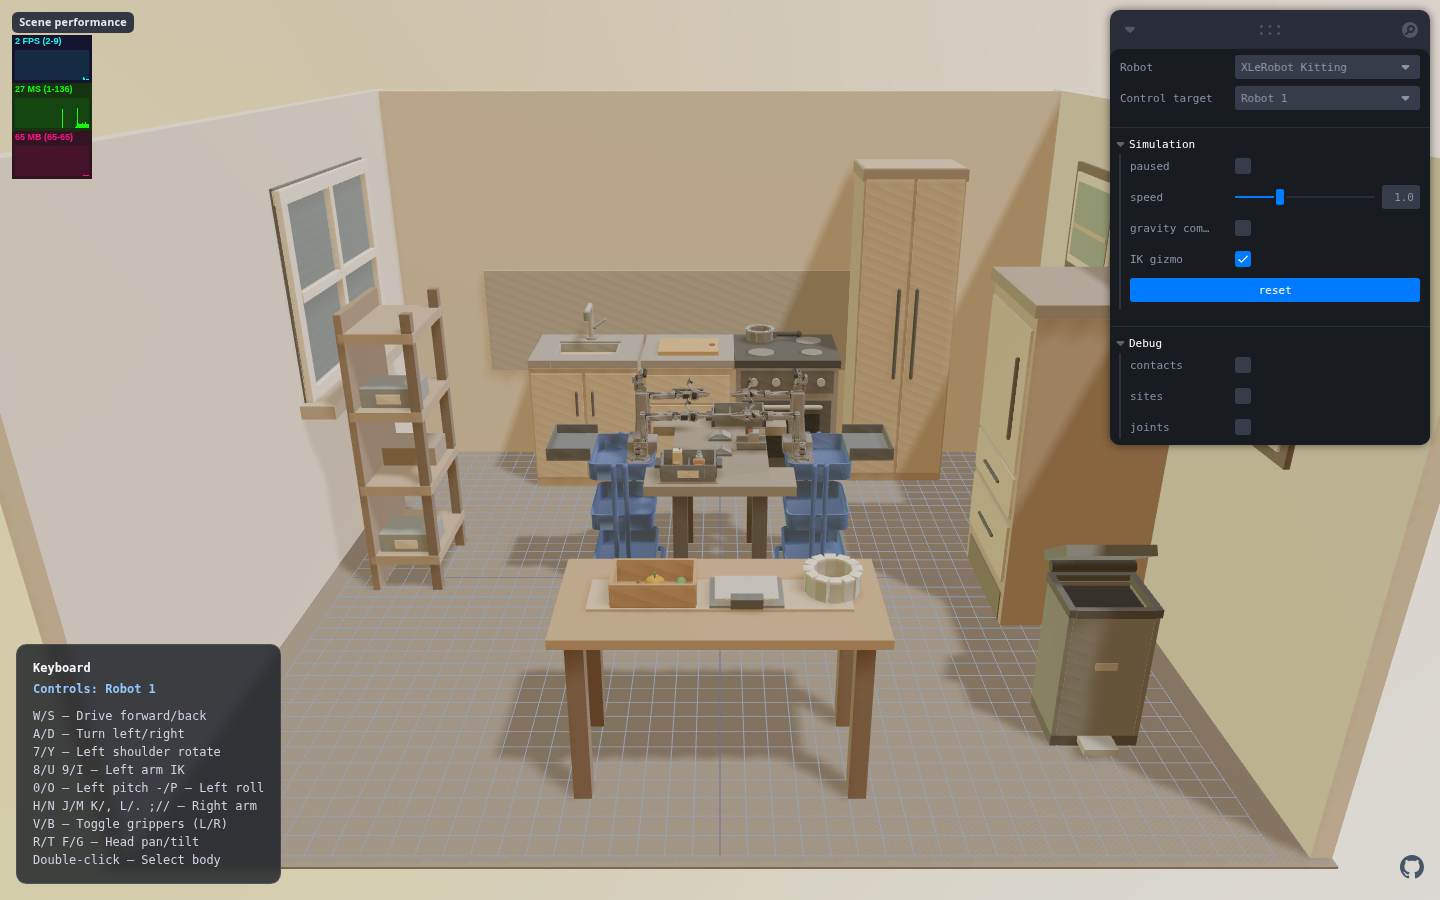
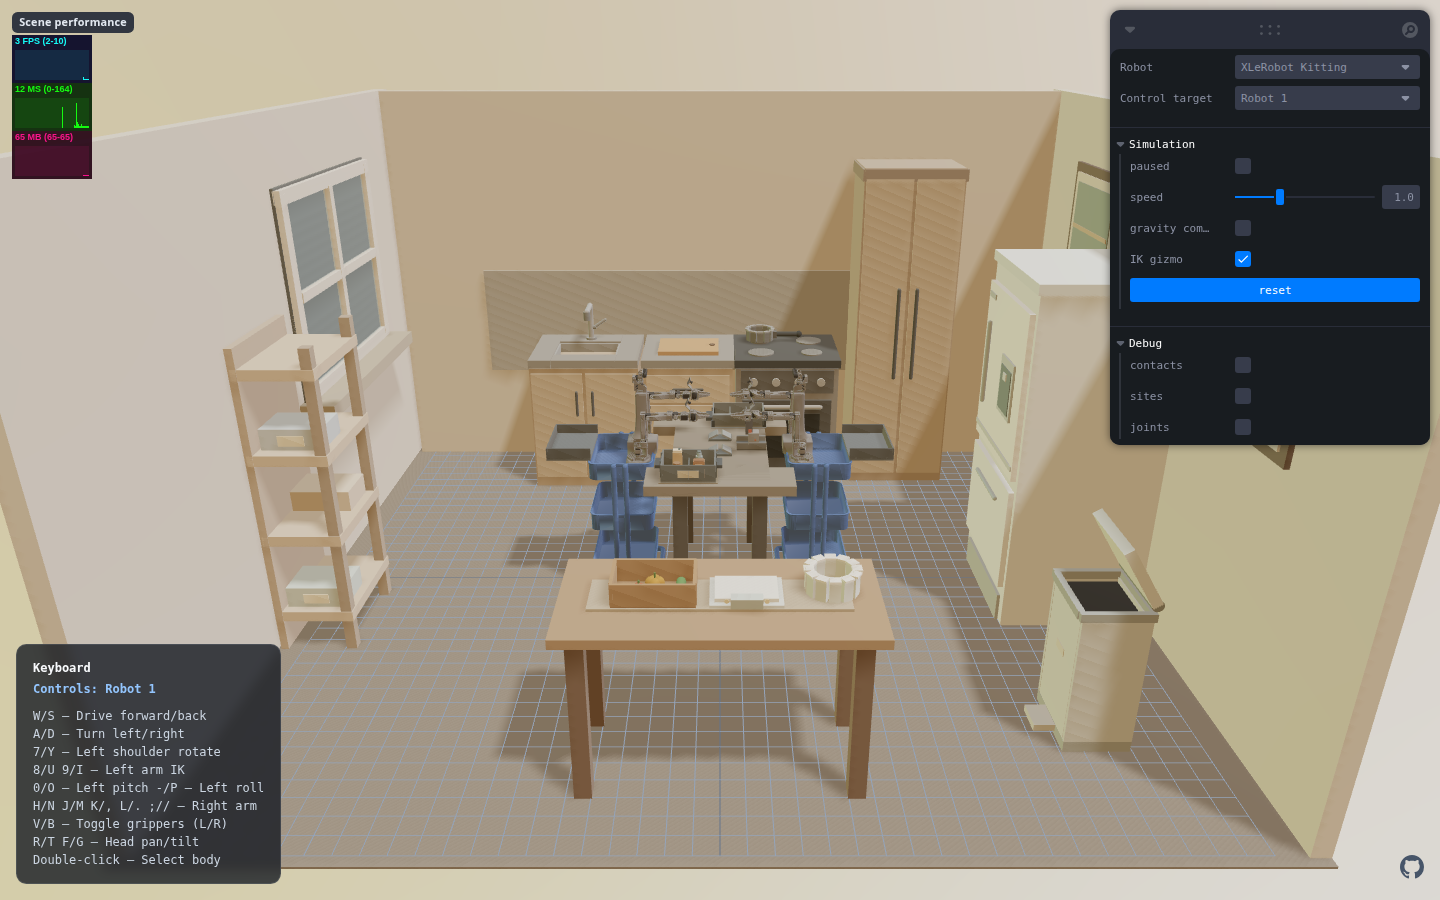
refactor(scene): refine XLeRobot kitchen
Separate the west shelf from the window, replace the east cabinet with a pale refrigerator, rotate and open the trash bin westward, and improve the produce-table prop palette.

diff --git a/src/collaborativeSceneLayouts.js b/src/collaborativeSceneLayouts.js
@@ -622,16 +622,19 @@ const XLEROBOT_HOME_ENVIRONMENT_XML = `
       <geom name="kitchen_east_wall_art_2_accent" type="cylinder" pos="-0.03 0.02 0.02" size="0.095 0.003" euler="0 90 0" rgba="0.32 0.38 0.35 1" contype="0" conaffinity="0"/>
     </body>
 
-    <body name="kitchen_side_cabinet" pos="1.74 -0.1 0">
-      <geom name="kitchen_side_cabinet_case" type="box" pos="0 0 0.79" size="0.34 0.37 0.79" rgba="0.48 0.41 0.34 1"/>
-      <geom name="kitchen_side_cabinet_top" type="box" pos="0 0 1.61" size="0.36 0.39 0.03" rgba="0.34 0.31 0.27 1"/>
-      <geom name="kitchen_side_cabinet_toe_kick" type="box" pos="-0.31 0 0.08" size="0.035 0.32 0.08" rgba="0.24 0.22 0.2 1"/>
-      <geom name="kitchen_side_cabinet_door_upper" type="box" pos="-0.347 0 1.16" size="0.007 0.34 0.35" rgba="0.6 0.53 0.44 1"/>
-      <geom name="kitchen_side_cabinet_drawer_middle" type="box" pos="-0.347 0 0.68" size="0.007 0.34 0.105" rgba="0.61 0.54 0.45 1"/>
-      <geom name="kitchen_side_cabinet_drawer_lower" type="box" pos="-0.347 0 0.38" size="0.007 0.34 0.15" rgba="0.61 0.54 0.45 1"/>
-      <geom name="kitchen_side_cabinet_handle_upper" type="capsule" fromto="-0.362 -0.22 0.95 -0.362 -0.22 1.34" size="0.011" rgba="0.22 0.23 0.22 1"/>
-      <geom name="kitchen_side_cabinet_handle_middle" type="capsule" fromto="-0.362 -0.13 0.68 -0.362 0.13 0.68" size="0.009" rgba="0.22 0.23 0.22 1"/>
-      <geom name="kitchen_side_cabinet_handle_lower" type="capsule" fromto="-0.362 -0.13 0.38 -0.362 0.13 0.38" size="0.009" rgba="0.22 0.23 0.22 1"/>
+    <body name="kitchen_refrigerator" pos="1.74 -0.1 0">
+      <geom name="refrigerator_case" type="box" pos="0 0 0.84" size="0.34 0.37 0.84" rgba="0.82 0.87 0.86 1"/>
+      <geom name="refrigerator_top" type="box" pos="0 0 1.705" size="0.355 0.385 0.025" rgba="0.76 0.82 0.81 1"/>
+      <geom name="refrigerator_toe_kick" type="box" pos="-0.337 0 0.07" size="0.018 0.315 0.07" rgba="0.49 0.54 0.54 1"/>
+      <geom name="refrigerator_upper_door" type="box" pos="-0.354 0 1.18" size="0.014 0.345 0.405" rgba="0.9 0.93 0.9 1"/>
+      <geom name="refrigerator_freezer_drawer" type="box" pos="-0.354 0 0.46" size="0.014 0.345 0.255" rgba="0.86 0.91 0.9 1"/>
+      <geom name="refrigerator_door_seam" type="box" pos="-0.371 0 0.835" size="0.004 0.337 0.012" rgba="0.62 0.68 0.67 1" contype="0" conaffinity="0"/>
+      <geom name="refrigerator_upper_handle" type="capsule" fromto="-0.382 0.235 0.98 -0.382 0.235 1.39" size="0.012" rgba="0.56 0.63 0.63 1"/>
+      <geom name="refrigerator_freezer_handle" type="capsule" fromto="-0.382 -0.18 0.61 -0.382 0.18 0.61" size="0.011" rgba="0.56 0.63 0.63 1"/>
+      <geom name="refrigerator_water_dispenser_frame" type="box" pos="-0.374 -0.13 1.17" size="0.006 0.105 0.14" rgba="0.58 0.65 0.64 1" contype="0" conaffinity="0"/>
+      <geom name="refrigerator_water_dispenser" type="box" pos="-0.381 -0.13 1.16" size="0.003 0.083 0.108" rgba="0.24 0.32 0.33 1" contype="0" conaffinity="0"/>
+      <geom name="refrigerator_dispenser_nozzle" type="box" pos="-0.386 -0.13 1.225" size="0.004 0.025 0.018" rgba="0.68 0.74 0.73 1" contype="0" conaffinity="0"/>
+      <geom name="refrigerator_brand_badge" type="box" pos="-0.383 0.22 1.535" size="0.003 0.052 0.013" rgba="0.53 0.59 0.59 1" contype="0" conaffinity="0"/>
     </body>
 
     <body name="kitchen_sink_cabinet" pos="-0.85 1.47 0">
@@ -751,55 +754,55 @@ const XLEROBOT_HOME_ENVIRONMENT_XML = `
     </body>
 
     <body name="produce_table_scale" pos="0.1 -1.45 0.762">
-      <geom name="produce_scale_base" type="box" size="0.14 0.105 0.012" rgba="0.27 0.29 0.29 1"/>
-      <geom name="produce_scale_platform" type="box" pos="0 0 0.022" size="0.12 0.085 0.008" rgba="0.53 0.54 0.52 1"/>
-      <geom name="produce_scale_display_housing" type="box" pos="0 -0.112 0.034" size="0.06 0.016 0.026" euler="18 0 0" rgba="0.2 0.22 0.22 1"/>
-      <geom name="produce_scale_display" type="box" pos="0 -0.128 0.041" size="0.043 0.002 0.012" euler="18 0 0" rgba="0.44 0.56 0.5 1" contype="0" conaffinity="0"/>
-      <geom name="produce_scale_button_left" type="cylinder" pos="-0.075 -0.108 0.032" size="0.009 0.002" euler="90 0 0" rgba="0.56 0.5 0.38 1" contype="0" conaffinity="0"/>
-      <geom name="produce_scale_button_right" type="cylinder" pos="0.075 -0.108 0.032" size="0.009 0.002" euler="90 0 0" rgba="0.56 0.5 0.38 1" contype="0" conaffinity="0"/>
+      <geom name="produce_scale_base" type="box" size="0.14 0.105 0.012" rgba="0.73 0.78 0.76 1"/>
+      <geom name="produce_scale_platform" type="box" pos="0 0 0.022" size="0.12 0.085 0.008" rgba="0.86 0.88 0.84 1"/>
+      <geom name="produce_scale_display_housing" type="box" pos="0 -0.112 0.034" size="0.06 0.016 0.026" euler="18 0 0" rgba="0.65 0.72 0.7 1"/>
+      <geom name="produce_scale_display" type="box" pos="0 -0.128 0.041" size="0.043 0.002 0.012" euler="18 0 0" rgba="0.38 0.61 0.54 1" contype="0" conaffinity="0"/>
+      <geom name="produce_scale_button_left" type="cylinder" pos="-0.075 -0.108 0.032" size="0.009 0.002" euler="90 0 0" rgba="0.82 0.72 0.5 1" contype="0" conaffinity="0"/>
+      <geom name="produce_scale_button_right" type="cylinder" pos="0.075 -0.108 0.032" size="0.009 0.002" euler="90 0 0" rgba="0.82 0.72 0.5 1" contype="0" conaffinity="0"/>
     </body>
     <body name="produce_prep_bowl" pos="0.43 -1.42 0.767">
-      <geom name="prep_bowl_bottom" type="cylinder" size="0.085 0.006" rgba="0.47 0.5 0.49 1"/>
-      ${annularGeometry('prep_bowl_wall', 0.075, 0.105, 0.045, '0.53 0.56 0.55 1', 0.2, [0, 0, 0.043])}
-      ${annularGeometry('prep_bowl_rim', 0.072, 0.112, 0.004, '0.68 0.69 0.66 1', 0.04, [0, 0, 0.088])}
-      <geom name="prep_bowl_inner_bottom" type="cylinder" pos="0 0 0.008" size="0.074 0.0015" rgba="0.28 0.3 0.29 1" contype="0" conaffinity="0"/>
+      <geom name="prep_bowl_bottom" type="cylinder" size="0.085 0.006" rgba="0.76 0.82 0.8 1"/>
+      ${annularGeometry('prep_bowl_wall', 0.075, 0.105, 0.045, '0.8 0.86 0.84 1', 0.2, [0, 0, 0.043])}
+      ${annularGeometry('prep_bowl_rim', 0.072, 0.112, 0.004, '0.9 0.91 0.86 1', 0.04, [0, 0, 0.088])}
+      <geom name="prep_bowl_inner_bottom" type="cylinder" pos="0 0 0.008" size="0.074 0.0015" rgba="0.61 0.69 0.67 1" contype="0" conaffinity="0"/>
     </body>
 
-    <body name="kitchen_trash_bin" pos="1.55 -1.25 0">
-      <geom name="trash_bin_base" type="box" pos="0 0 0.025" size="0.18 0.14 0.025" rgba="0.17 0.18 0.18 1"/>
-      <geom name="trash_bin_wall_west" type="box" pos="-0.17 0 0.34" size="0.01 0.14 0.29" rgba="0.27 0.29 0.29 1"/>
-      <geom name="trash_bin_wall_east" type="box" pos="0.17 0 0.34" size="0.01 0.14 0.29" rgba="0.27 0.29 0.29 1"/>
-      <geom name="trash_bin_wall_north" type="box" pos="0 0.13 0.34" size="0.16 0.01 0.29" rgba="0.25 0.27 0.27 1"/>
-      <geom name="trash_bin_wall_south" type="box" pos="0 -0.13 0.34" size="0.16 0.01 0.29" rgba="0.29 0.31 0.31 1"/>
-      <geom name="trash_bin_rim_west" type="box" pos="-0.17 0 0.64" size="0.014 0.15 0.018" rgba="0.15 0.16 0.16 1"/>
-      <geom name="trash_bin_rim_east" type="box" pos="0.17 0 0.64" size="0.014 0.15 0.018" rgba="0.15 0.16 0.16 1"/>
-      <geom name="trash_bin_rim_north" type="box" pos="0 0.14 0.64" size="0.156 0.014 0.018" rgba="0.15 0.16 0.16 1"/>
-      <geom name="trash_bin_rim_south" type="box" pos="0 -0.14 0.64" size="0.156 0.014 0.018" rgba="0.15 0.16 0.16 1"/>
+    <body name="kitchen_trash_bin" pos="1.55 -1.25 0" euler="0 0 -90">
+      <geom name="trash_bin_base" type="box" pos="0 0 0.025" size="0.18 0.14 0.025" rgba="0.45 0.49 0.48 1"/>
+      <geom name="trash_bin_wall_west" type="box" pos="-0.17 0 0.34" size="0.01 0.14 0.29" rgba="0.66 0.7 0.68 1"/>
+      <geom name="trash_bin_wall_east" type="box" pos="0.17 0 0.34" size="0.01 0.14 0.29" rgba="0.66 0.7 0.68 1"/>
+      <geom name="trash_bin_wall_north" type="box" pos="0 0.13 0.34" size="0.16 0.01 0.29" rgba="0.63 0.67 0.65 1"/>
+      <geom name="trash_bin_wall_south" type="box" pos="0 -0.13 0.34" size="0.16 0.01 0.29" rgba="0.7 0.74 0.71 1"/>
+      <geom name="trash_bin_rim_west" type="box" pos="-0.17 0 0.64" size="0.014 0.15 0.018" rgba="0.42 0.46 0.45 1"/>
+      <geom name="trash_bin_rim_east" type="box" pos="0.17 0 0.64" size="0.014 0.15 0.018" rgba="0.42 0.46 0.45 1"/>
+      <geom name="trash_bin_rim_north" type="box" pos="0 0.14 0.64" size="0.156 0.014 0.018" rgba="0.42 0.46 0.45 1"/>
+      <geom name="trash_bin_rim_south" type="box" pos="0 -0.14 0.64" size="0.156 0.014 0.018" rgba="0.42 0.46 0.45 1"/>
       <geom name="trash_bin_opening" type="box" pos="0 0 0.61" size="0.15 0.115 0.004" rgba="0.055 0.06 0.06 1" contype="0" conaffinity="0"/>
-      <geom name="trash_bin_lid_hinge" type="cylinder" pos="0 0.145 0.69" size="0.025 0.175" euler="0 90 0" rgba="0.12 0.13 0.13 1"/>
-      <geom name="trash_bin_lid" type="box" pos="0 0.105 0.775" size="0.18 0.14 0.022" euler="-32 0 0" rgba="0.22 0.24 0.24 1"/>
-      <geom name="trash_bin_foot_pedal" type="box" pos="0 -0.18 0.035" size="0.07 0.05 0.015" rgba="0.42 0.43 0.41 1"/>
-      <geom name="trash_bin_front_badge" type="box" pos="0 -0.141 0.39" size="0.045 0.002 0.018" rgba="0.48 0.47 0.42 1" contype="0" conaffinity="0"/>
+      <geom name="trash_bin_lid_hinge" type="cylinder" pos="0 0.145 0.69" size="0.025 0.175" euler="0 90 0" rgba="0.34 0.38 0.37 1"/>
+      <geom name="trash_bin_lid" type="box" pos="0 0.07 0.81" size="0.18 0.14 0.022" euler="-58 0 0" rgba="0.73 0.77 0.74 1"/>
+      <geom name="trash_bin_foot_pedal" type="box" pos="0 -0.18 0.035" size="0.07 0.05 0.015" rgba="0.67 0.69 0.65 1"/>
+      <geom name="trash_bin_front_badge" type="box" pos="0 -0.141 0.39" size="0.045 0.002 0.018" rgba="0.72 0.7 0.62 1" contype="0" conaffinity="0"/>
     </body>
 
-    <body name="storage_shelf" pos="-1.65 0.15 0">
-      <geom name="storage_shelf_back" type="box" pos="-0.17 0 0.75" size="0.018 0.28 0.75" rgba="0.35 0.29 0.23 1"/>
-      <geom name="storage_shelf_post_front" type="box" pos="0.15 -0.25 0.75" size="0.025 0.025 0.75" rgba="0.27 0.23 0.19 1"/>
-      <geom name="storage_shelf_post_back" type="box" pos="0.15 0.25 0.75" size="0.025 0.025 0.75" rgba="0.27 0.23 0.19 1"/>
-      <geom name="storage_shelf_level_1" type="box" pos="0 0 0.18" size="0.18 0.28 0.025" rgba="0.46 0.39 0.31 1"/>
-      <geom name="storage_shelf_level_2" type="box" pos="0 0 0.58" size="0.18 0.28 0.025" rgba="0.46 0.39 0.31 1"/>
-      <geom name="storage_shelf_level_3" type="box" pos="0 0 0.98" size="0.18 0.28 0.025" rgba="0.46 0.39 0.31 1"/>
-      <geom name="storage_shelf_level_4" type="box" pos="0 0 1.38" size="0.18 0.28 0.025" rgba="0.46 0.39 0.31 1"/>
+    <body name="storage_shelf" pos="-1.92 -0.4 0">
+      <geom name="storage_shelf_back" type="box" pos="-0.17 0 0.75" size="0.018 0.28 0.75" rgba="0.58 0.5 0.41 1"/>
+      <geom name="storage_shelf_post_front" type="box" pos="0.15 -0.25 0.75" size="0.025 0.025 0.75" rgba="0.48 0.42 0.35 1"/>
+      <geom name="storage_shelf_post_back" type="box" pos="0.15 0.25 0.75" size="0.025 0.025 0.75" rgba="0.48 0.42 0.35 1"/>
+      <geom name="storage_shelf_level_1" type="box" pos="0 0 0.18" size="0.18 0.28 0.025" rgba="0.68 0.59 0.48 1"/>
+      <geom name="storage_shelf_level_2" type="box" pos="0 0 0.58" size="0.18 0.28 0.025" rgba="0.68 0.59 0.48 1"/>
+      <geom name="storage_shelf_level_3" type="box" pos="0 0 0.98" size="0.18 0.28 0.025" rgba="0.68 0.59 0.48 1"/>
+      <geom name="storage_shelf_level_4" type="box" pos="0 0 1.38" size="0.18 0.28 0.025" rgba="0.68 0.59 0.48 1"/>
       <body name="storage_bin_1" pos="0 -0.12 0.25">
-        <geom name="storage_bin_1_body" type="box" size="0.14 0.11 0.055" rgba="0.34 0.38 0.37 1"/>
-        <geom name="storage_bin_1_label" type="box" pos="0 -0.112 0" size="0.06 0.002 0.025" rgba="0.69 0.66 0.56 1" contype="0" conaffinity="0"/>
+        <geom name="storage_bin_1_body" type="box" size="0.14 0.11 0.055" rgba="0.64 0.72 0.69 1"/>
+        <geom name="storage_bin_1_label" type="box" pos="0 -0.112 0" size="0.06 0.002 0.025" rgba="0.88 0.84 0.7 1" contype="0" conaffinity="0"/>
       </body>
       <body name="storage_bin_2" pos="0 0.1 0.65">
-        <geom name="storage_bin_2_body" type="box" size="0.14 0.11 0.055" rgba="0.39 0.35 0.3 1"/>
+        <geom name="storage_bin_2_body" type="box" size="0.14 0.11 0.055" rgba="0.72 0.65 0.55 1"/>
       </body>
       <body name="storage_bin_3" pos="0 -0.1 1.05">
-        <geom name="storage_bin_3_body" type="box" size="0.14 0.11 0.055" rgba="0.32 0.36 0.38 1"/>
-        <geom name="storage_bin_3_label" type="box" pos="0 -0.112 0" size="0.06 0.002 0.025" rgba="0.69 0.66 0.56 1" contype="0" conaffinity="0"/>
+        <geom name="storage_bin_3_body" type="box" size="0.14 0.11 0.055" rgba="0.62 0.69 0.73 1"/>
+        <geom name="storage_bin_3_label" type="box" pos="0 -0.112 0" size="0.06 0.002 0.025" rgba="0.88 0.84 0.7 1" contype="0" conaffinity="0"/>
       </body>
     </body>`;
 

diff --git a/docs/progress/2026-08-13-xlerobot-so101-room-expansion.md b/docs/progress/2026-08-13-xlerobot-so101-room-expansion.md
@@ -57,3 +57,26 @@ runtime GitHub downloads.
 
 Both checkpoints were captured at 1440 × 900 after successful browser-side
 MJCF loading.
+
+## XLeRobot visual follow-up
+
+The subsequent kitchen pass separates the west storage shelf from the window:
+the shelf now sits immediately south of the window with its back against the
+west wall. The former east-wall cabinet is replaced by a pale refrigerator
+with a distinct upper door, freezer drawer, handles, water dispenser, toe kick,
+door seam, and badge.
+
+The southeast trash bin is rotated 90 degrees so its front and pedal face west
+toward the room. Its lid now opens approximately 58 degrees from the wall-side
+hinge. The bin, refrigerator, shelf containers, digital produce scale, and open
+preparation bowl use a lighter palette to improve silhouette and part
+legibility.
+
+Follow-up verification:
+
+- XLeRobot Kitting MJCF: 101 bodies, 429 geoms, 32 actuators, 123 qpos;
+  0 initial penetrating contacts.
+- Focused collaboration-scene tests: 18/18 passed.
+- TypeScript and production Vite build passed.
+- Both XLeRobot keyboard-control blocks passed browser checks.
+- Refreshed checkpoint: `artifacts/screenshots/xlerobot-kitting.png`.
